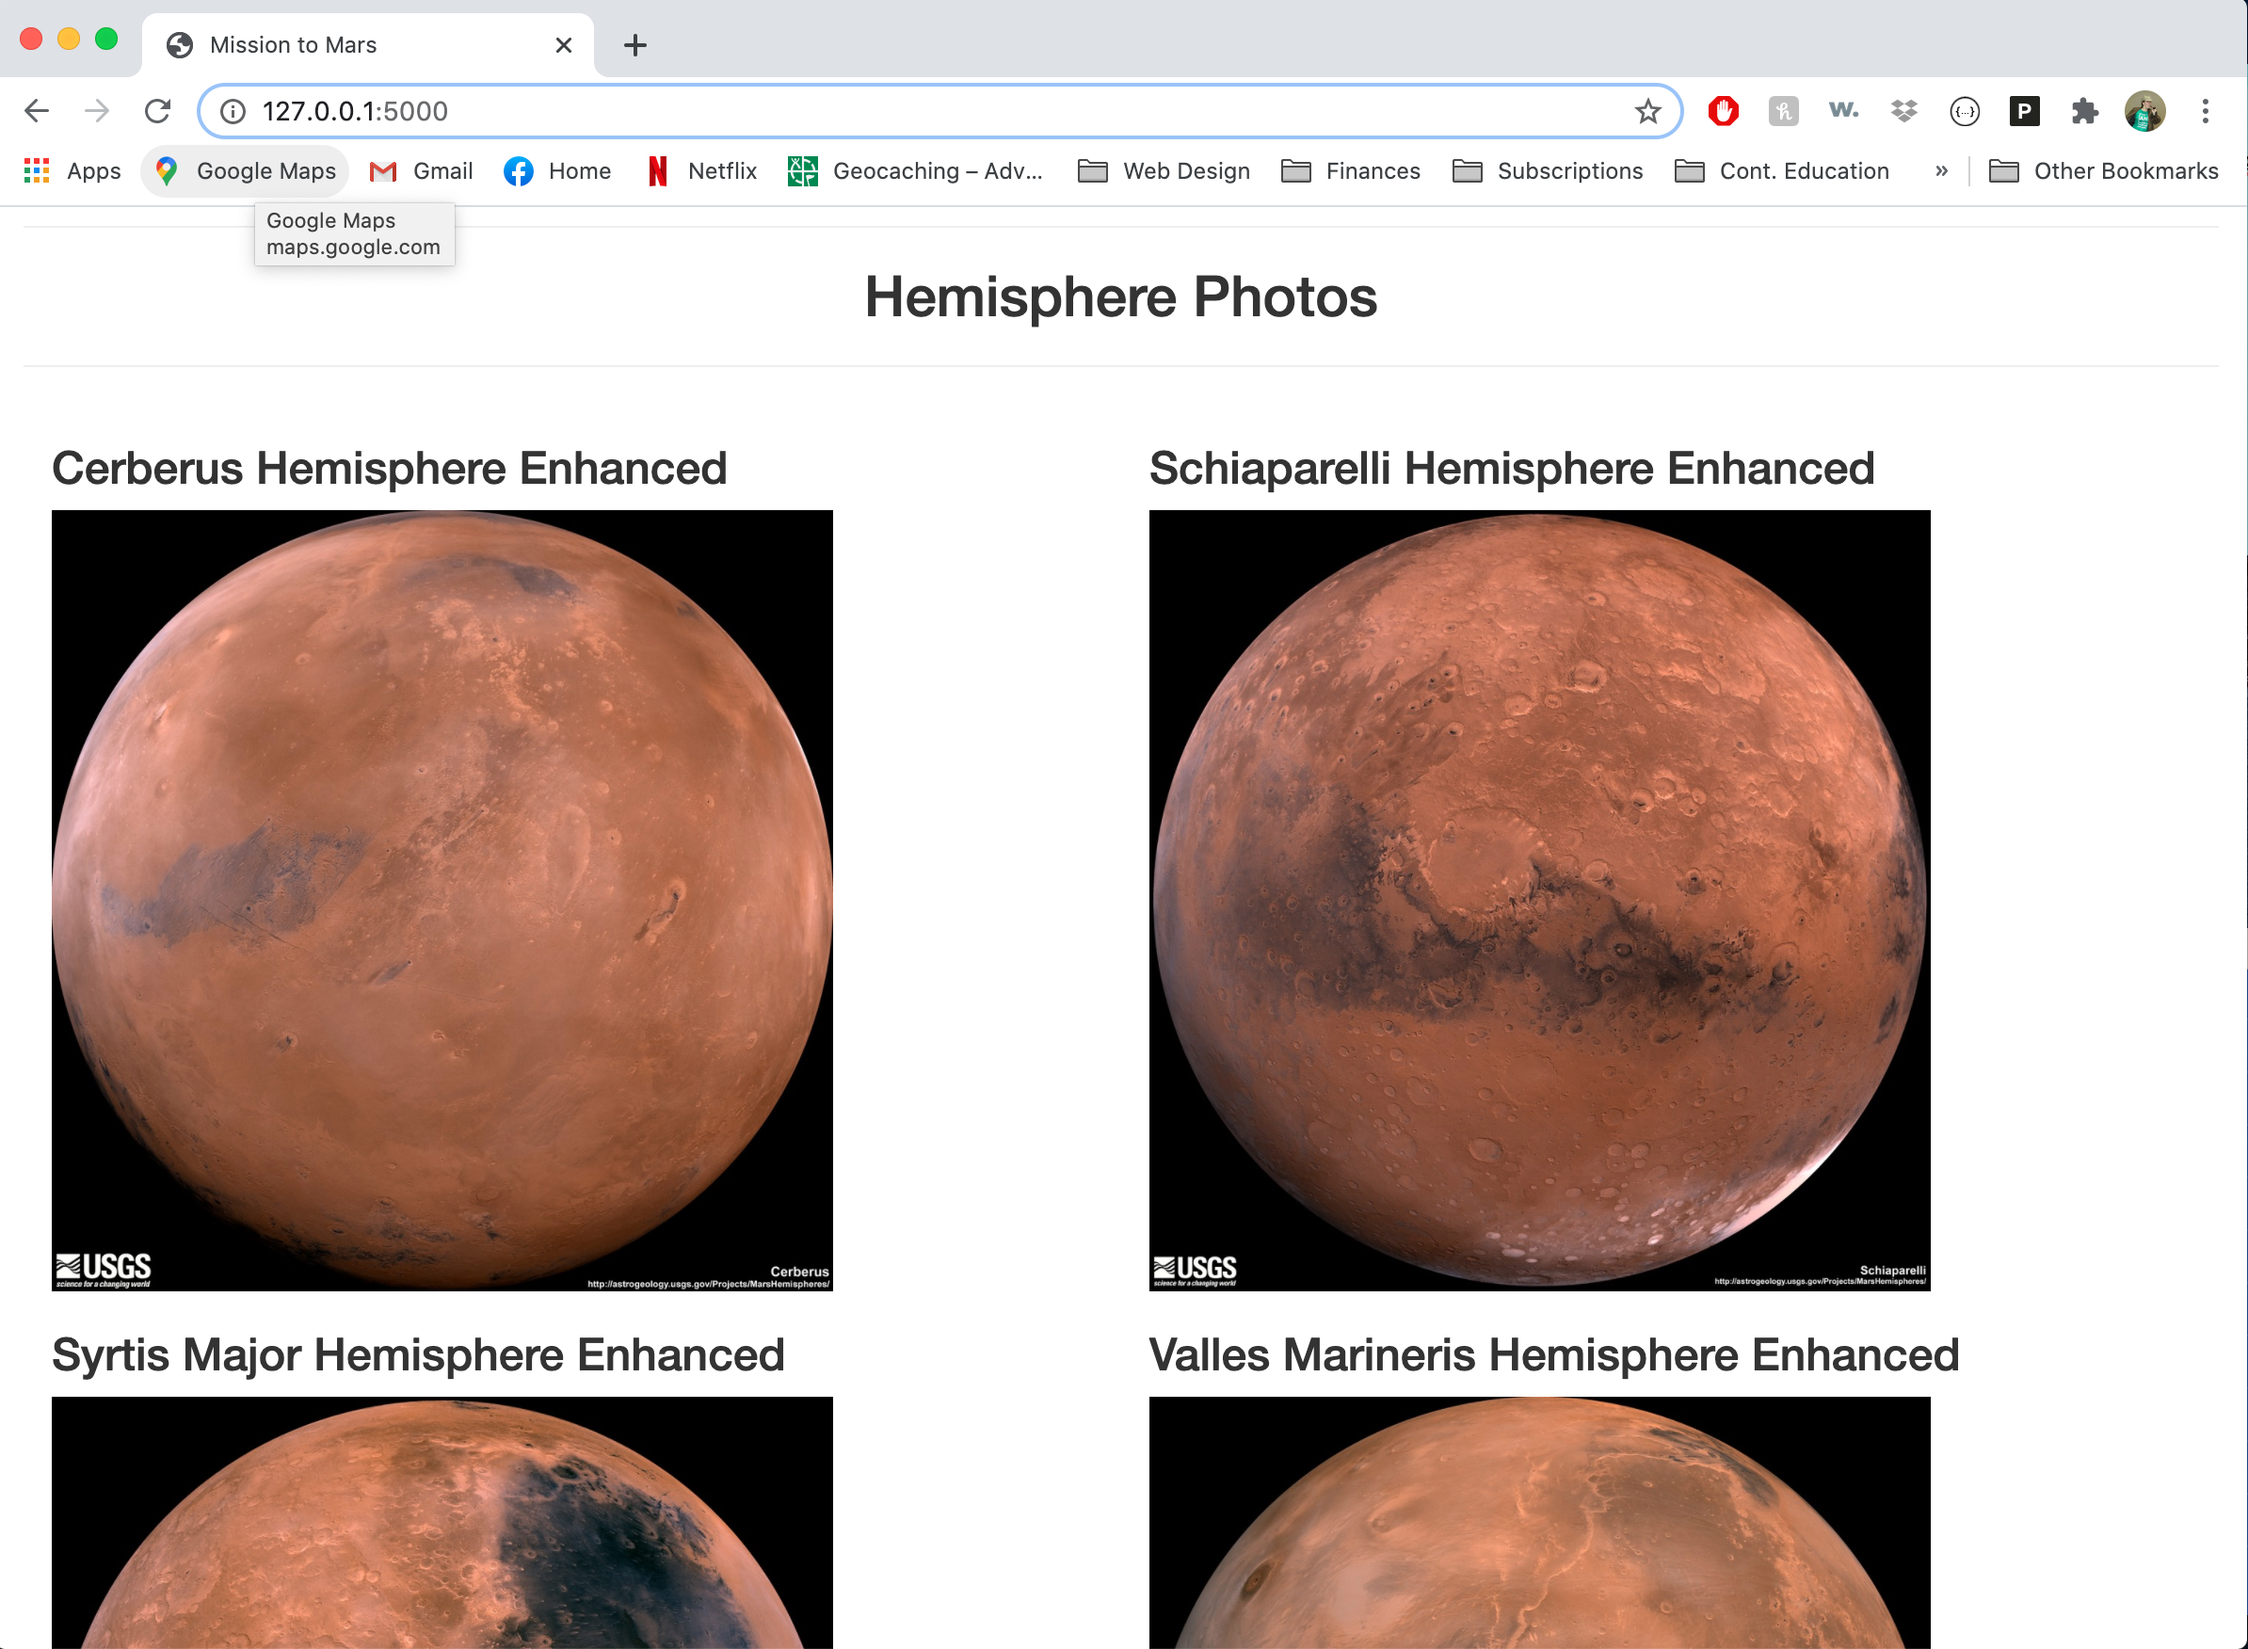
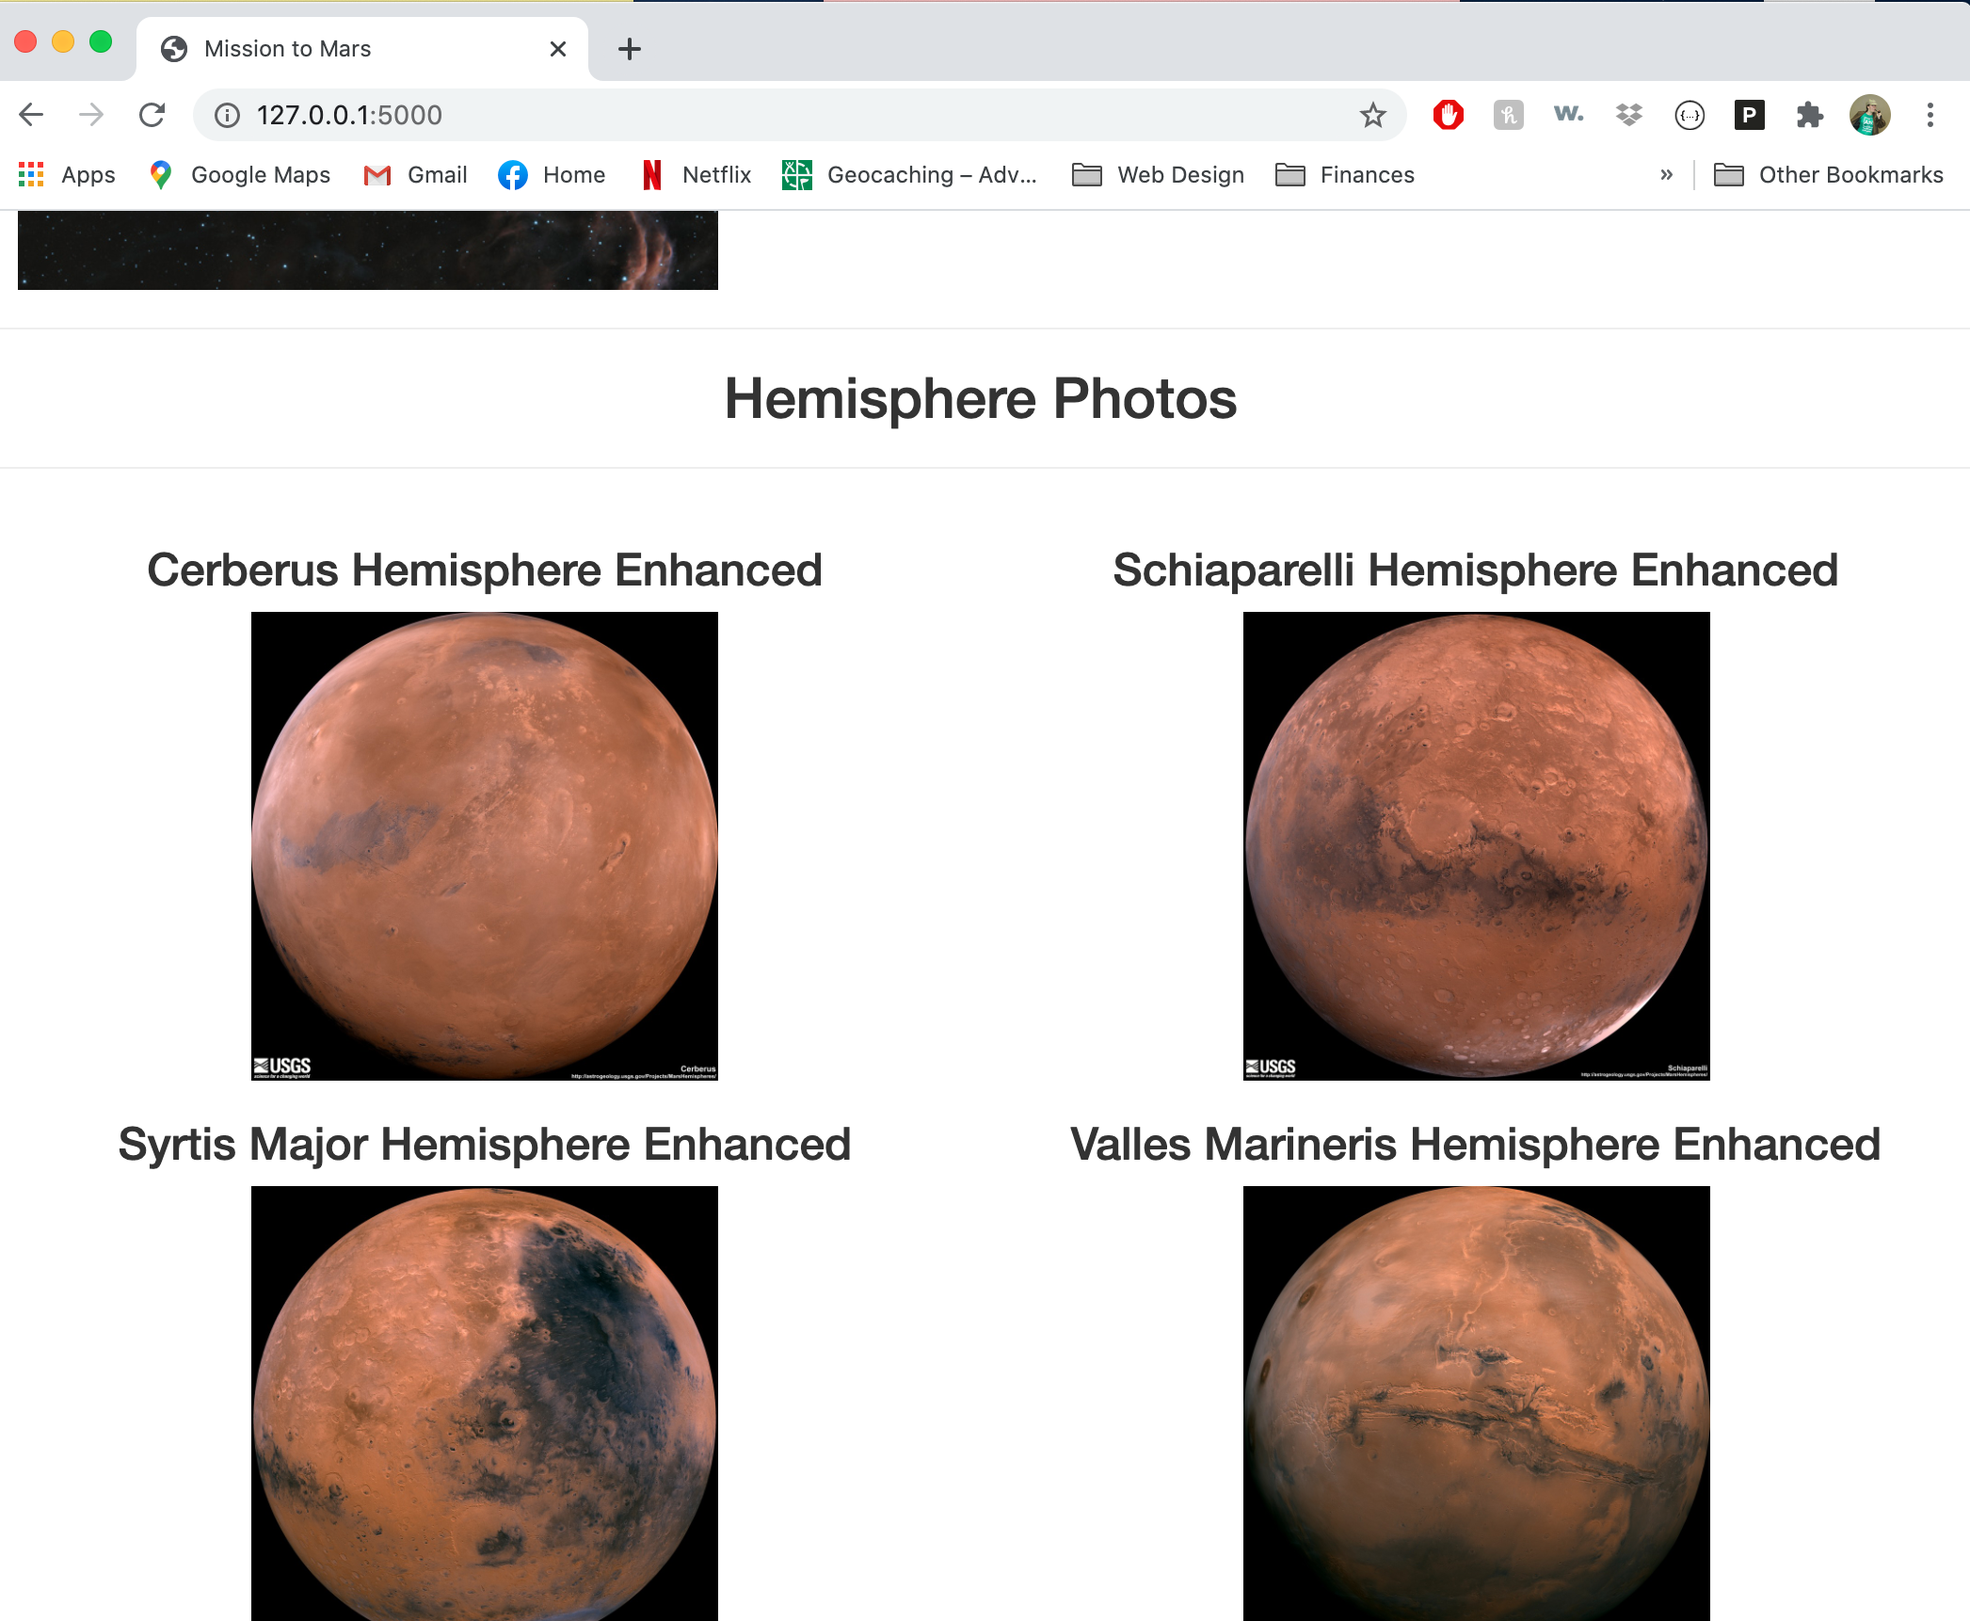
Pull in table from mongo and changed HTML formats

diff --git a/Mission_to_Mars/templates/index.html b/Mission_to_Mars/templates/index.html
@@ -26,67 +26,18 @@
                 </div>
             </div>
             <div class="row">
-                <div class="col-md-8">
+                <div class="col-md-6">
                     <h2>Featured Space Mission Photo</h2>
                     <!--Feature image goes here-->
                     <img src="{{ marsinfo.feature }}" alt="Featured Image of Space Missions" width="90%" height="90%">
                 </div>
                 
                 <!--Facts table goes here-->
-                <div class="col-md-4">
-                        <h2>Mars Fact Sheet</h2>
-                    <table class="table">
-                        <thead>
-                            <tr style="text-align: right;">
-                                <th></th>
-                                <th>Data</th>
-                            </tr>
-                            <tr>
-                                <th>Description</th>
-                                <th></th>
-                            </tr>
-                        </thead>
-                        <tbody>
-                            <tr>
-                                <th>Equatorial Diameter:</th>
-                                <td>6,792 km</td>
-                            </tr>
-                            <tr>
-                                <th>Polar Diameter:</th>
-                                <td>6,752 km</td>
-                            </tr>
-                            <tr>
-                                <th>Mass:</th>
-                                <td>6.39 × 10^23 kg (0.11 Earths)</td>
-                            </tr>
-                            <tr>
-                                <th>Moons:</th>
-                                <td>2 (Phobos &amp; Deimos)</td>
-                            </tr>
-                            <tr>
-                                <th>Orbit Distance:</th>
-                                <td>227,943,824 km (1.38 AU)</td>
-                            </tr>
-                            <tr>
-                                <th>Orbit Period:</th>
-                                <td>687 days (1.9 years)</td>
-                            </tr>
-                            <tr>
-                                <th>Surface Temperature:</th>
-                                <td>-87 to -5 °C</td>
-                            </tr>
-                            <tr>
-                                <th>First Record:</th>
-                                <td>2nd millennium BC</td>
-                            </tr>
-                            <tr>
-                                <th>Recorded By:</th>
-                                <td>Egyptian astronomers</td>
-                            </tr>
-                        </tbody>           
-                    </table>
-                </div>
-            </div>
+                <div class="col-md-6">
+                    <h2>Mars Fact Sheet</h2>
+                        {{ marsinfo.factsTable|safe }}
+                </div>        
+
 
             <!--Hemisphere Photos Grid-->   
             <div class="row">
@@ -105,7 +56,7 @@
                     {% for item in marsinfo.hemispheres %}
                     <div class="col-md-6">
                         <div class="card-deck">
-                            <div class="card">
+                            <div class="card text-center">
                                 <h3 class="card-header">
                                     {{ item.title }}
                                 </h3>

diff --git a/Mission_to_Mars/scrape_mars.py b/Mission_to_Mars/scrape_mars.py
@@ -1,5 +1,6 @@
 # Dependencies
 import lxml.html as lh
+import pandas as pd
 from bs4 import BeautifulSoup as bs
 import requests
 from splinter import Browser
@@ -21,6 +22,9 @@ def scrape_info():
 
     #Run the funciion to get the list of key vaues for the hemisphere name and image url
     marsmission['hemispheres'] = hemispheres()
+
+    #Run the funciion to get the Mars Facts Table
+    marsmission['factsTable'] = facts()
 
     #Initialize browser for the news page
     browser = init_browser()
@@ -105,3 +109,43 @@ def hemispheres():
     browser.quit()
 
     return hemispheres
+
+def facts():
+
+    browser = init_browser()
+
+    # URL of page to be scraped
+    facts_url = "https://space-facts.com/mars/"
+
+    # Retrieve page with the requests module
+    response = requests.get(facts_url)
+
+    # Create a Beautiful Soup object
+    soup = bs(response.text, 'html.parser')
+
+    #Thanks to https://www.pluralsight.com/guides/extracting-data-html-beautifulsoup for some table extraction tips
+    facts_table = soup.find("table", attrs={"class": "tablepress"})
+    facts_table_data = facts_table.tbody.find_all("tr")
+
+    all_facts_data = []
+
+    #Put the all the fact data in a list
+    for item in range(9): #tabel row range is easily made static based on the small size
+        for td in facts_table_data[item].find_all("td"):
+            #Remove all the markup from the text
+            all_facts_data.append(td.text.strip())
+
+    #Split the list with help from stackoverflow.com
+    #Make a list of the fact items in the even indicies
+    fact_item = all_facts_data[::2] 
+
+    #Make a list of the fact data in the odd indicies
+    fact_data = all_facts_data[1::2]
+
+    facts_table_df = pd.DataFrame({'Description':fact_item,'Data':fact_data}).set_index('Description', drop=True)
+    # Use Pandas to convert the data to a HTML table string.
+    factsTable = pd.DataFrame.to_html(facts_table_df)
+
+    browser.quit()
+
+    return factsTable
